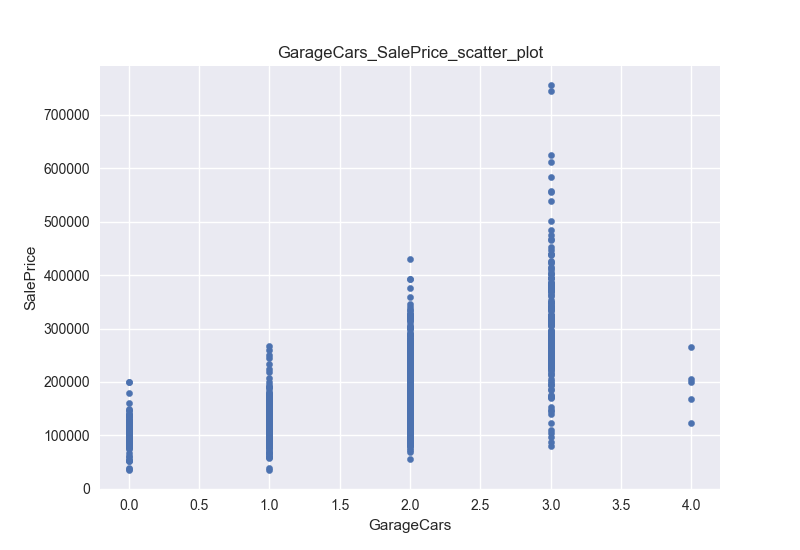
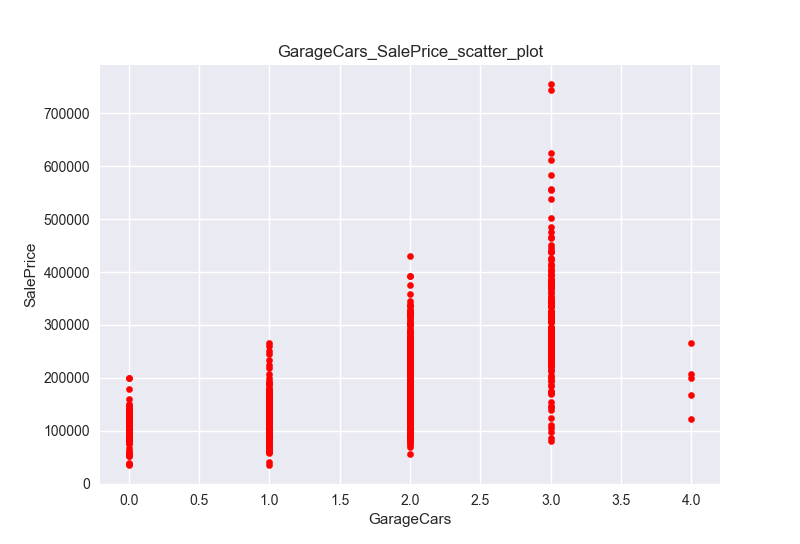
update picture-color

diff --git a/venv/visual1.py b/venv/visual1.py
@@ -14,40 +14,46 @@ warnings.filterwarnings('ignore')
 df_train = pd.read_csv("input_data/train.csv")
 # print(df_train.info())
 # print(df_train.columns)
-# sns.distplot(df_train['SalePrice']) # 将SalePrice可视化
+
+# sns.distplot(df_train['SalePrice'], color='red') # 将SalePrice可视化
 # plt.title("SalePrice_probability_figure")
-# plt.savefig("pictures/SalePrice_probability_figure.png")
+# # plt.savefig("pictures/SalePrice_probability_figure.png")
+# plt.show()
 
 # var = 'GrLivArea'
+# var = 'GarageCars'
+# var = 'TotalBsmtSF'
 # data = pd.concat([df_train['SalePrice'], df_train[var]], axis = 1)
-# data.plot.scatter(x=var, y='SalePrice')
+# data.plot.scatter(x=var, y='SalePrice', color='red')
 # plt.title(var + '_SalePrice_scatter_plot') # 线性相关
-# plt.savefig('pictures/' + var + '_SalePrice_scatter_plot.png') # 线性相关
+# # plt.savefig('pictures/' + var + '_SalePrice_scatter_plot.png') # 线性相关
 # plt.show()
 
 
+# var = 'OverallQual'
 # var = 'YearBuilt'
 # data = pd.concat([df_train['SalePrice'], df_train[var]], axis = 1)
 # f,ax = plt.subplots(figsize=(16,8))
-# fig = sns.boxplot(x=var,y="SalePrice", data = data)
+# fig = sns.boxplot(x=var,y="SalePrice", data = data,color='red')
 # # fig.axis(ymin=0,ymax=800000)
 # plt.title(var + '_SalePrice_scatter_plot')
-# plt.savefig('pictures/' + var + '_SalePrice_scatter_plot.png') # 线性相关
+# # plt.savefig('pictures/' + var + '_SalePrice_scatter_plot.png') # 线性相关
 # plt.show()
 
-# corrmat = df_train.corr()
-# # f, ax = plt.subplots(figsize = (12,10))
-# sns.heatmap(corrmat, vmax = .8,square = True) # 相关矩阵和热力图
+corrmat = df_train.corr()
+# f, ax = plt.subplots(figsize = (12,10))
+# sns.heatmap(corrmat, vmax = 1, vmin = 0, square=True, cmap='Reds') # 相关矩阵和热力图
 # plt.title("data heatmap picture")
 # plt.xticks(rotation=90)
 # plt.yticks(rotation=360)
 # plt.show()
-
+#
 # k = 10
 # cols = corrmat.nlargest(k, 'SalePrice')['SalePrice'].index
 # cm = np.corrcoef(df_train[cols].values.T)
 # sns.set(font_scale=1.25)
-# hm = sns.heatmap(cm, cbar=True, annot=True, square=True,fmt='.2f',annot_kws={'size':10},
+# # sns.heatmap(cm, vmax = 1, vmin = 0, cmap='GnBu') # 相关矩阵和热力图
+# hm = sns.heatmap(cm, vmax = 1, vmin = 0, cmap='Reds', square=True,
 #                  yticklabels=cols.values, xticklabels=cols.values)
 # plt.title("zommed data heatmap picture")
 # plt.xticks(rotation=90)
@@ -89,34 +95,36 @@ df_train = df_train.drop(df_train[df_train['Id']==524].index)
 
 # var = 'GrLivArea'
 # data = pd.concat([df_train['SalePrice'], df_train[var]], axis = 1)
-# data.plot.scatter(x=var, y='SalePrice',ylim=(0,800000))
-
-# plt.title("GrLivArea_SalePrice_scatter_figure_after_delete_two_data")
-# plt.savefig("pictures/GrLivArea_SalePrice_scatter_figure_agter_two_data.png")
+# data.plot.scatter(x=var, y='SalePrice',ylim=(0,800000), color='red')
 # plt.show()
-
+#
+# plt.title("GrLivArea_SalePrice_scatter_figure_after_delete_two_data")
+# # plt.savefig("pictures/GrLivArea_SalePrice_scatter_figure_after_two_data.png")
+# plt.show()
+#
 # var = 'GrLivArea'
-# sns.distplot(df_train[var])
+# var = 'TotalBsmtSF'
+# sns.distplot(df_train[var],color='red')
 # plt.title("GrLivArea_probability_figure")
 # plt.savefig("pictures/GrLivArea_probability_figure.png")
 
 # var = 'TotalBsmtSF'
-# plt.scatter(df_train[df_train[var]>0][var],df_train[df_train[var]>0]['SalePrice'])
+# plt.scatter(df_train[df_train[var]>0][var],df_train[df_train[var]>0]['SalePrice'], color='red')
 # # plt.scatter(df_train[var],df_train['SalePrice'])
 # plt.title(var + '_SalePrice_scatter_figure_exceptZero')
-# plt.savefig('pictures/' + var + '_SalePrice_scatter_figure_exceptZero.png')
+# # plt.savefig('pictures/' + var + '_SalePrice_scatter_figure_exceptZero.png')
 # plt.show()
 
 df_train['SalePrice'] = np.log(df_train['SalePrice'])
 df_train['GrLivArea'] = np.log(df_train['GrLivArea'])
-
+#
 # var = 'SalePrice'
-# sns.distplot(df_train[var])
+# sns.distplot(df_train[var], color='red')
 # plt.title(var + "_loged_probability_figure")
 # plt.savefig("pictures/" + var + "_loged_probability_figure.png")
 
 # var = 'GrLivArea'
-# sns.distplot(df_train[var])
+# sns.distplot(df_train[var], color='red')
 # plt.title(var + "_loged_probability_figure")
 # plt.savefig("pictures/" + var + "_loged_probability_figure.png")
 
@@ -127,21 +135,21 @@ df_train['GrLivArea'] = np.log(df_train['GrLivArea'])
 
 
 # var = 'TotalBsmtSF'
-# sns.distplot(df_train[var])
+# sns.distplot(df_train[var],color='red')
 # plt.title(var + "_probability_figure")
 # plt.savefig("pictures/" + var + "_probability_figure.png")
 # plt.show()
-
+#
 df_train['HasBsmt'] = pd.Series(len(df_train['TotalBsmtSF']),index=df_train.index)
 df_train['HasBsmt'] = 0
 df_train.loc[df_train['TotalBsmtSF']>0, 'HasBsmt'] = 1
 df_train.loc[df_train['HasBsmt']==1,'TotalBsmtSF'] = np.log(df_train['TotalBsmtSF'])
-
+#
 # var = 'TotalBsmtSF'
-# sns.distplot(df_train[var])
+# sns.distplot(df_train[var],color='red')
 # plt.xlim((4,9))
 # plt.title(var + "_loged_probability_exceptZero_figure")
-# plt.savefig("pictures/" + var + "_loged_probability_exceptZero_figure.png")
+# # plt.savefig("pictures/" + var + "_loged_probability_exceptZero_figure.png")
 # plt.show()
 
 # sns.distplot(df_train[df_train['TotalBsmtSF']>0]['TotalBsmtSF'],fit = norm)
@@ -150,10 +158,18 @@ df_train.loc[df_train['HasBsmt']==1,'TotalBsmtSF'] = np.log(df_train['TotalBsmtS
 
 # var = 'GrLivArea'
 # # plt.scatter(df_train[df_train[var]>0][var],df_train[df_train[var]>0]['SalePrice'])
-# plt.scatter(df_train[var],df_train['SalePrice'])
+# plt.scatter(df_train[var],df_train['SalePrice'],color='red')
 # plt.title(var + '_SalePrice_scatter_figure_loged')
-# plt.savefig('pictures/' + var + '_SalePrice_scatter_figure_loged.png')
+# # plt.savefig('pictures/' + var + '_SalePrice_scatter_figure_loged.png')
 # plt.show()
 
+var = 'TotalBsmtSF'
+plt.scatter(df_train[df_train[var]>0][var],df_train[df_train[var]>0]['SalePrice'],color='red')
+# plt.scatter(df_train[var],df_train['SalePrice'],color='red')
+plt.title(var + '_SalePrice_scatter_figure_loged_exceptZero')
+# plt.savefig('pictures/' + var + '_SalePrice_scatter_figure_loged_exceptZero.png')
+plt.show()
+
+
 # print(df_train.info())
-df_train = pd.get_dummies(df_train)
+# df_train = pd.get_dummies(df_train)
